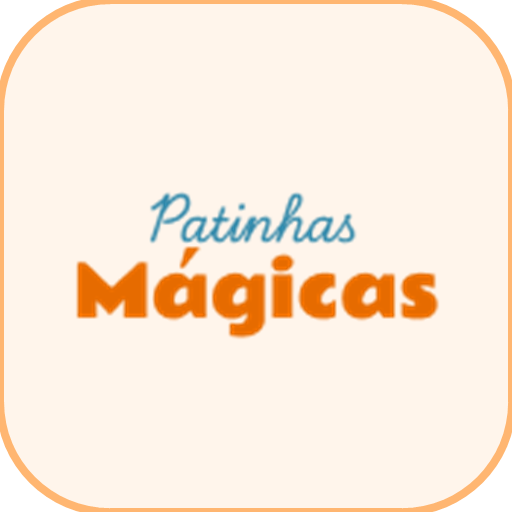
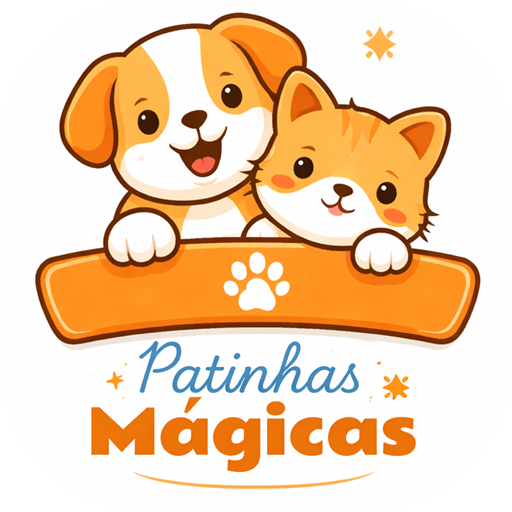
Icones

diff --git a/PatinhasMagicasPWA/wwwroot/index.html b/PatinhasMagicasPWA/wwwroot/index.html
@@ -9,11 +9,11 @@
     <link rel="preload" id="webassembly" />
     <link rel="stylesheet" href="lib/bootstrap/dist/css/bootstrap.min.css" />
     <link rel="stylesheet" href="css/app.css" />
-    <link rel="icon" type="image/png" href="favicon.png?v=2" />
+    <link rel="icon" type="image/png" href="favicon.png?v=3" />
     <link href="PatinhasMagicasPWA.styles.css" rel="stylesheet" />
-    <link href="manifest.webmanifest?v=2" rel="manifest" />
-    <link rel="apple-touch-icon" sizes="512x512" href="icon-512.png?v=2" />
-    <link rel="apple-touch-icon" sizes="192x192" href="icon-192.png?v=2" />
+    <link href="manifest.webmanifest?v=3" rel="manifest" />
+    <link rel="apple-touch-icon" sizes="512x512" href="icon-512.png?v=3" />
+    <link rel="apple-touch-icon" sizes="192x192" href="icon-192.png?v=3" />
     <meta name="apple-mobile-web-app-title" content="Patinhas Magicas" />
     <meta name="application-name" content="Patinhas Magicas" />
     <meta name="theme-color" content="#ff7a00" />
